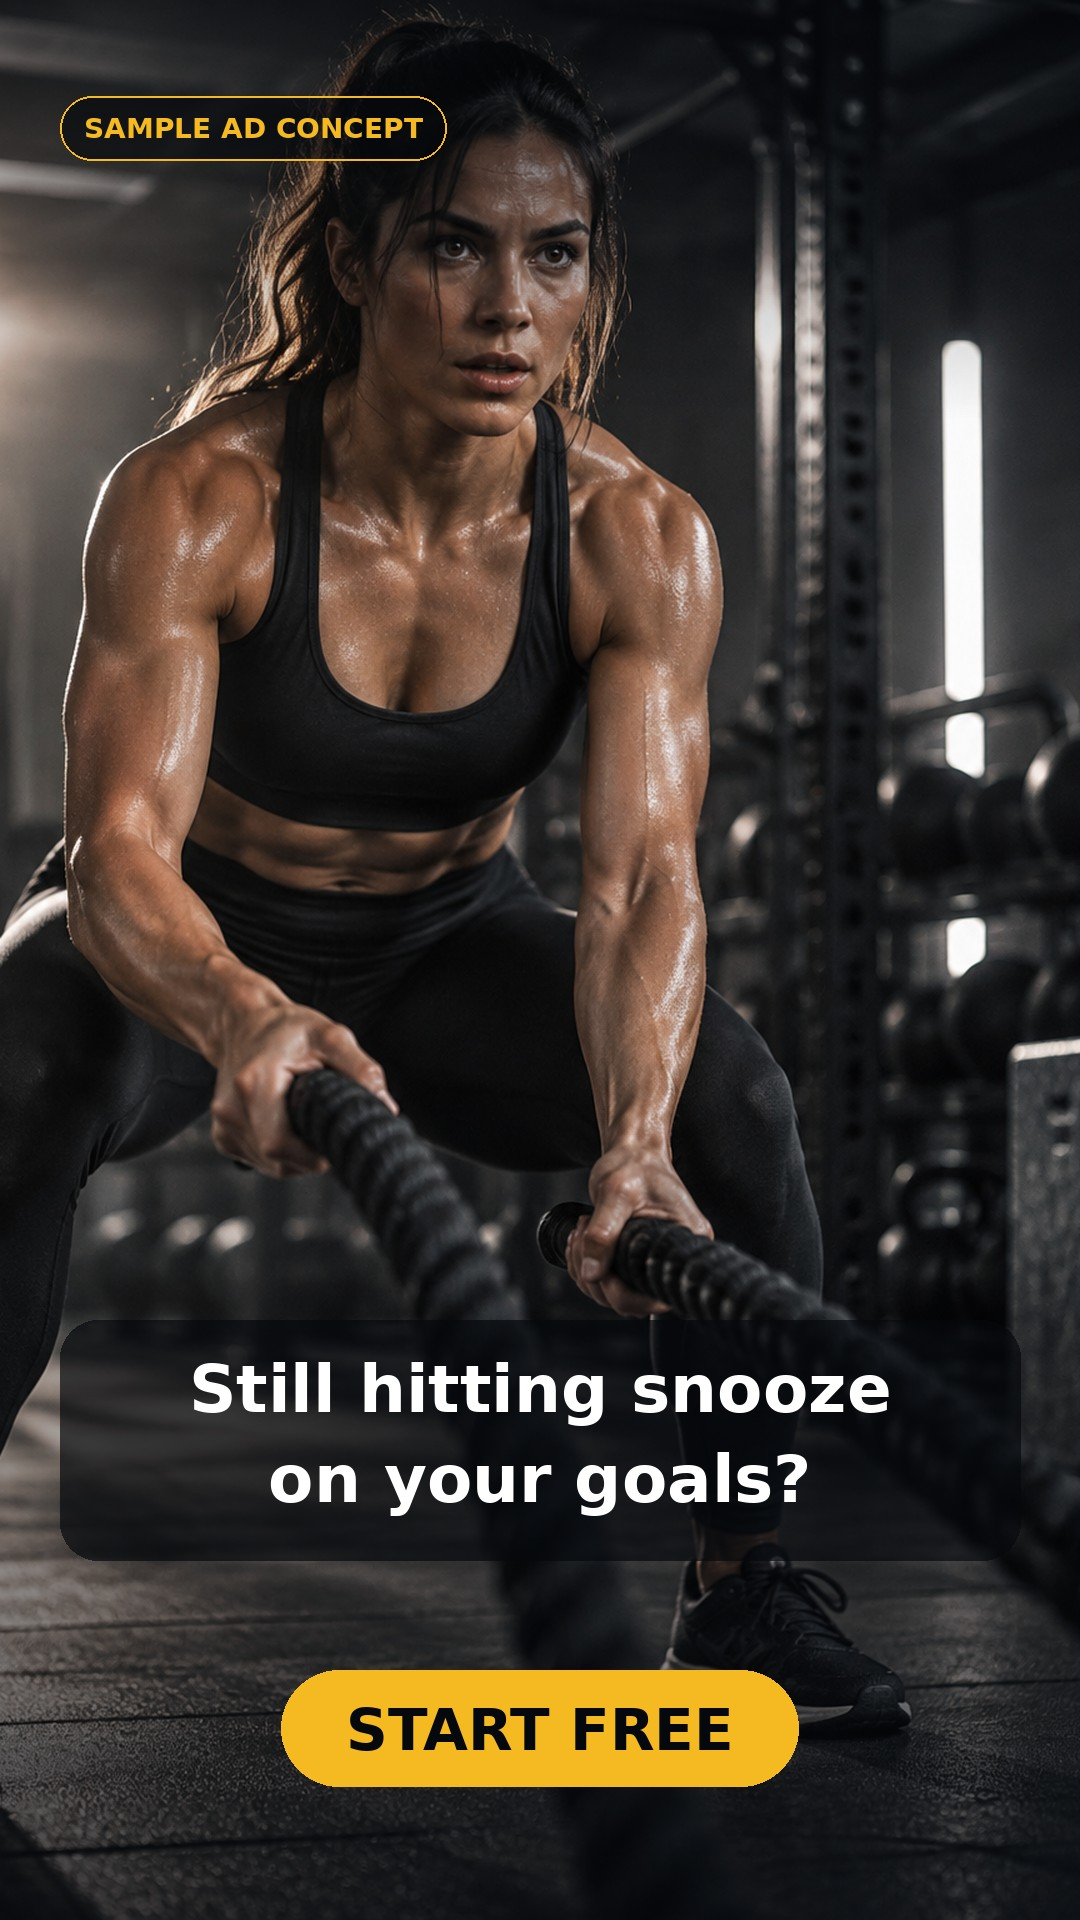
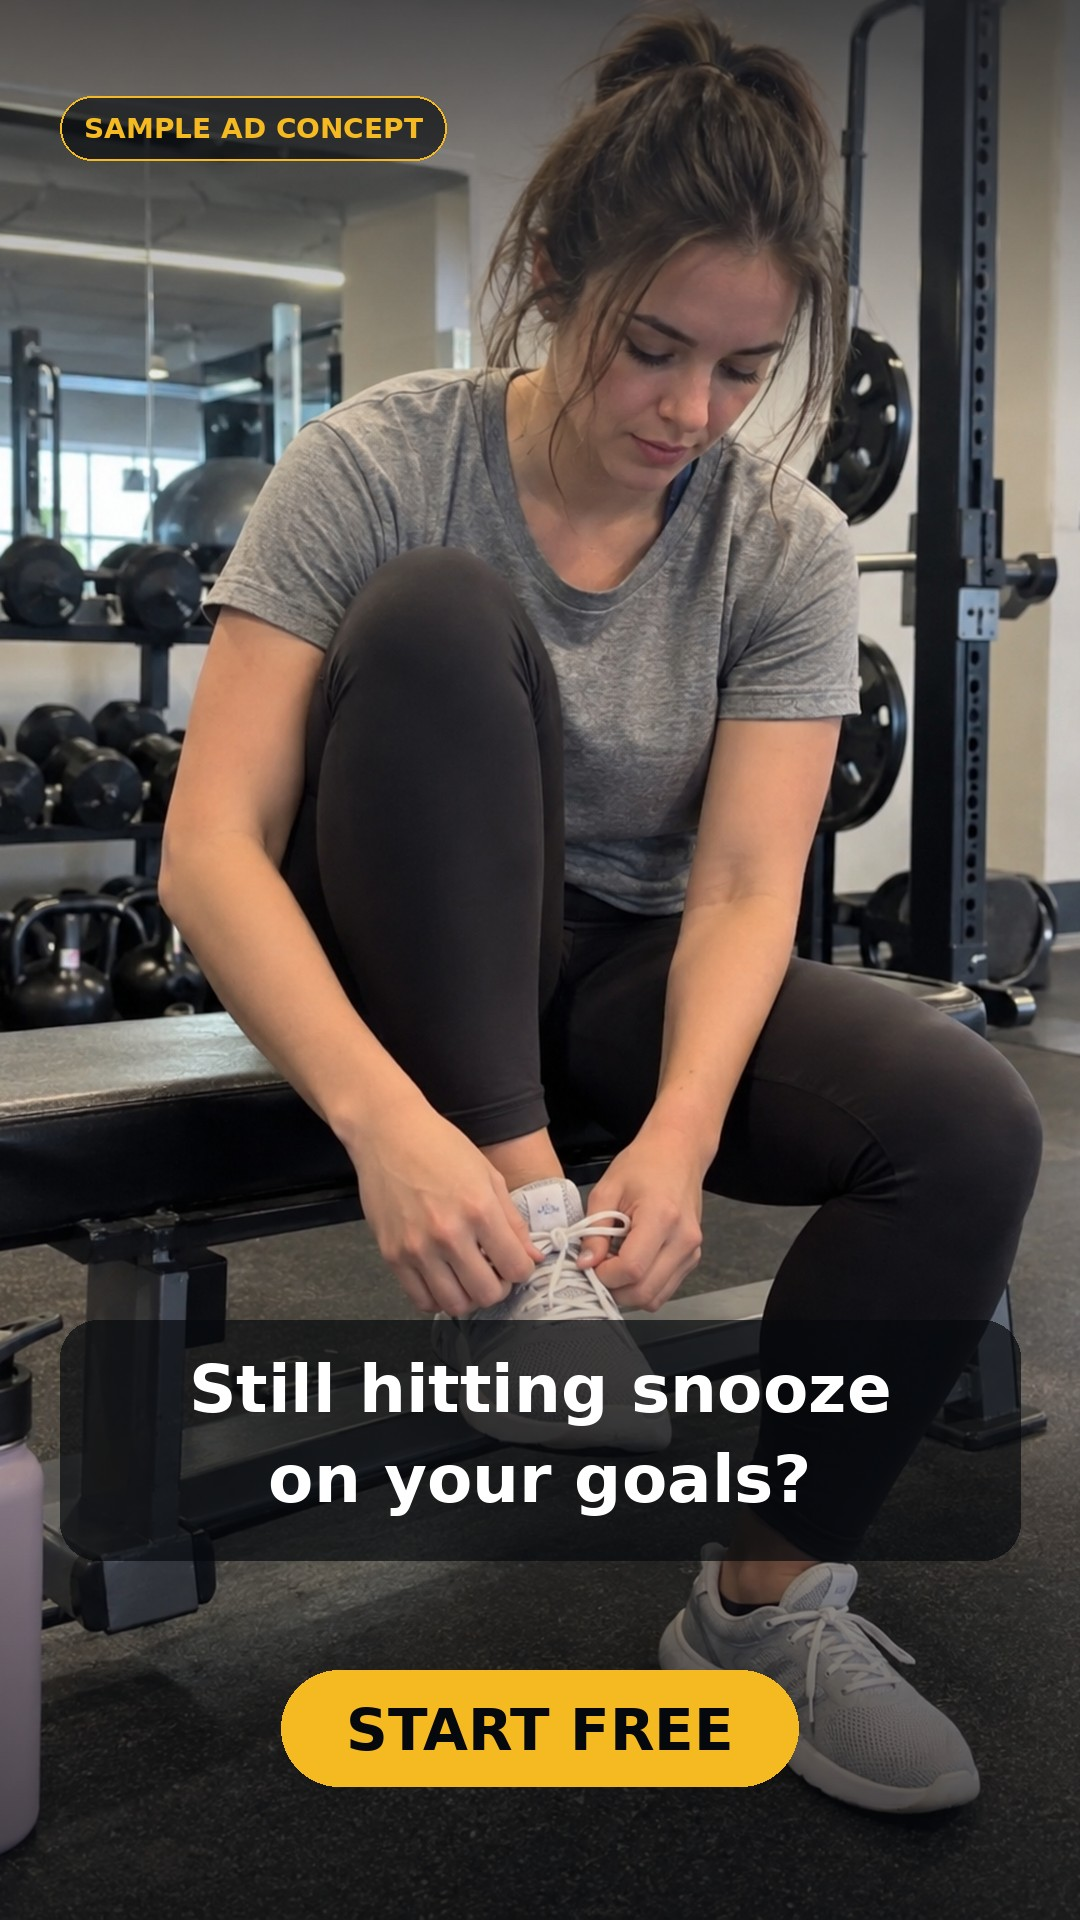
New hero headline, realistic ad stills, contact email leo@deepsyke.com

diff --git a/index.html b/index.html
@@ -29,7 +29,7 @@
 <header class="hero" id="top">
   <div class="hero-bg"></div>
   <div class="wrap">
-    <h1 class="rv">Advertising and AI&nbsp;SMS campaigns for your business.</h1>
+    <h1 class="rv">Marketing for a changing world</h1>
     <p class="rv">We streamline your marketing outreach to new and old clients via SMS and short ads. We can handle all your bookings, enquiries, conversions and drive new traffic your way. We can even reactivate your old leads and convert them into dollars while you're sleeping.</p>
     <div class="hero-btns rv">
       <a href="#contact" class="btn btn-volt">Get in touch →</a>
@@ -243,7 +243,7 @@
 <section class="cta" id="contact">
   <div class="wrap">
     <h2 class="rv">Get in touch</h2>
-    <p class="lead rv">Tell us about your business and which service you're interested in, and we'll get back to you.</p>
+    <p class="lead rv">Tell us about your business and which service you're interested in, and we'll get back to you. Or email Leo directly at <a href="mailto:leo@deepsyke.com">leo@deepsyke.com</a>.</p>
     <form class="form rv" id="form">
       <input type="text" name="name" placeholder="Your name" required>
       <input type="email" name="email" placeholder="Email" required>
@@ -258,7 +258,7 @@
 <footer>
   <div class="wrap foot">
     <div class="logo"><i></i>DEEPSYKE SOLUTIONS</div>
-    <div>© <span id="yr">2026</span> Deepsyke Solutions. Founded by Leo Kendrick, Australia.</div>
+    <div>© <span id="yr">2026</span> Deepsyke Solutions. Founded by Leo Kendrick, Australia. <a href="mailto:leo@deepsyke.com">leo@deepsyke.com</a></div>
   </div>
 </footer>
 

diff --git a/style.css b/style.css
@@ -215,3 +215,6 @@ footer{border-top:1px solid var(--line);padding:46px 0;color:var(--mute);font-si
   .logo{justify-content:center}
 }
 @media(prefers-reduced-motion:reduce){*{animation:none!important;transition:none!important}.rv{opacity:1;transform:none}.msg{opacity:1;transform:none}}
+
+.lead a, footer a { color: var(--volt); text-decoration: none; border-bottom: 1px solid rgba(245,185,33,.4); }
+.lead a:hover, footer a:hover { border-bottom-color: var(--volt); }

diff --git a/script.js b/script.js
@@ -1,5 +1,5 @@
 // CONTACT: change this address to your real inbox
-const CONTACT_EMAIL = 'hello@deepsyke.com';
+const CONTACT_EMAIL = 'leo@deepsyke.com';
 
 const nav = document.getElementById('nav');
 addEventListener('scroll', () => nav.classList.toggle('scrolled', scrollY > 30), { passive: true });
